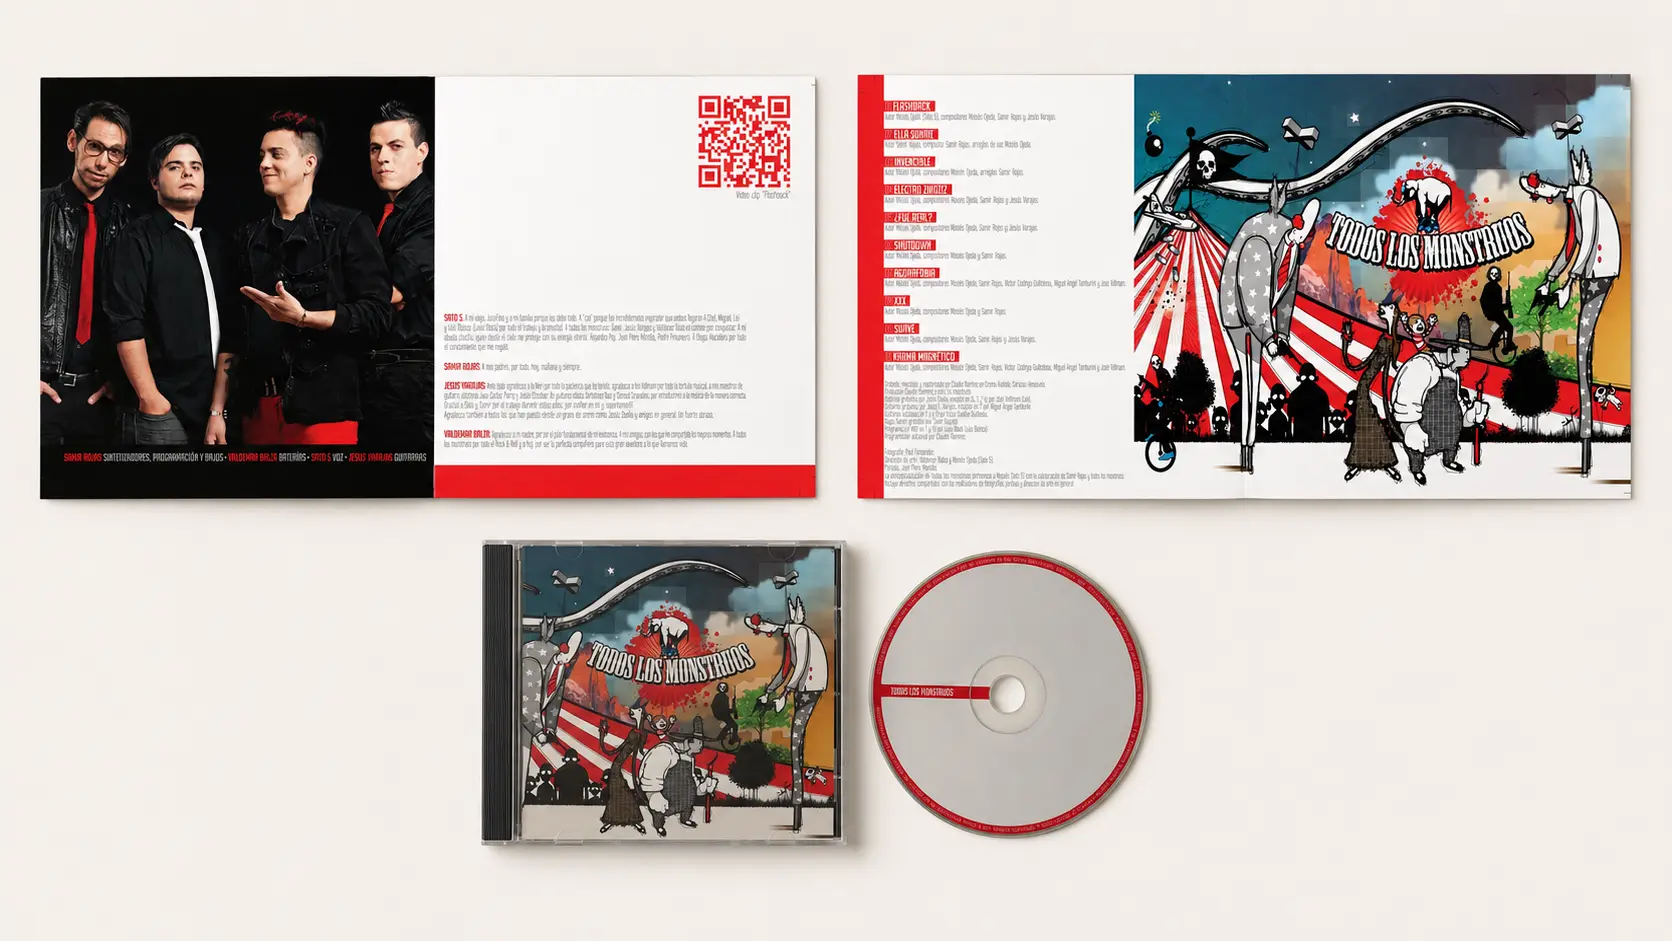
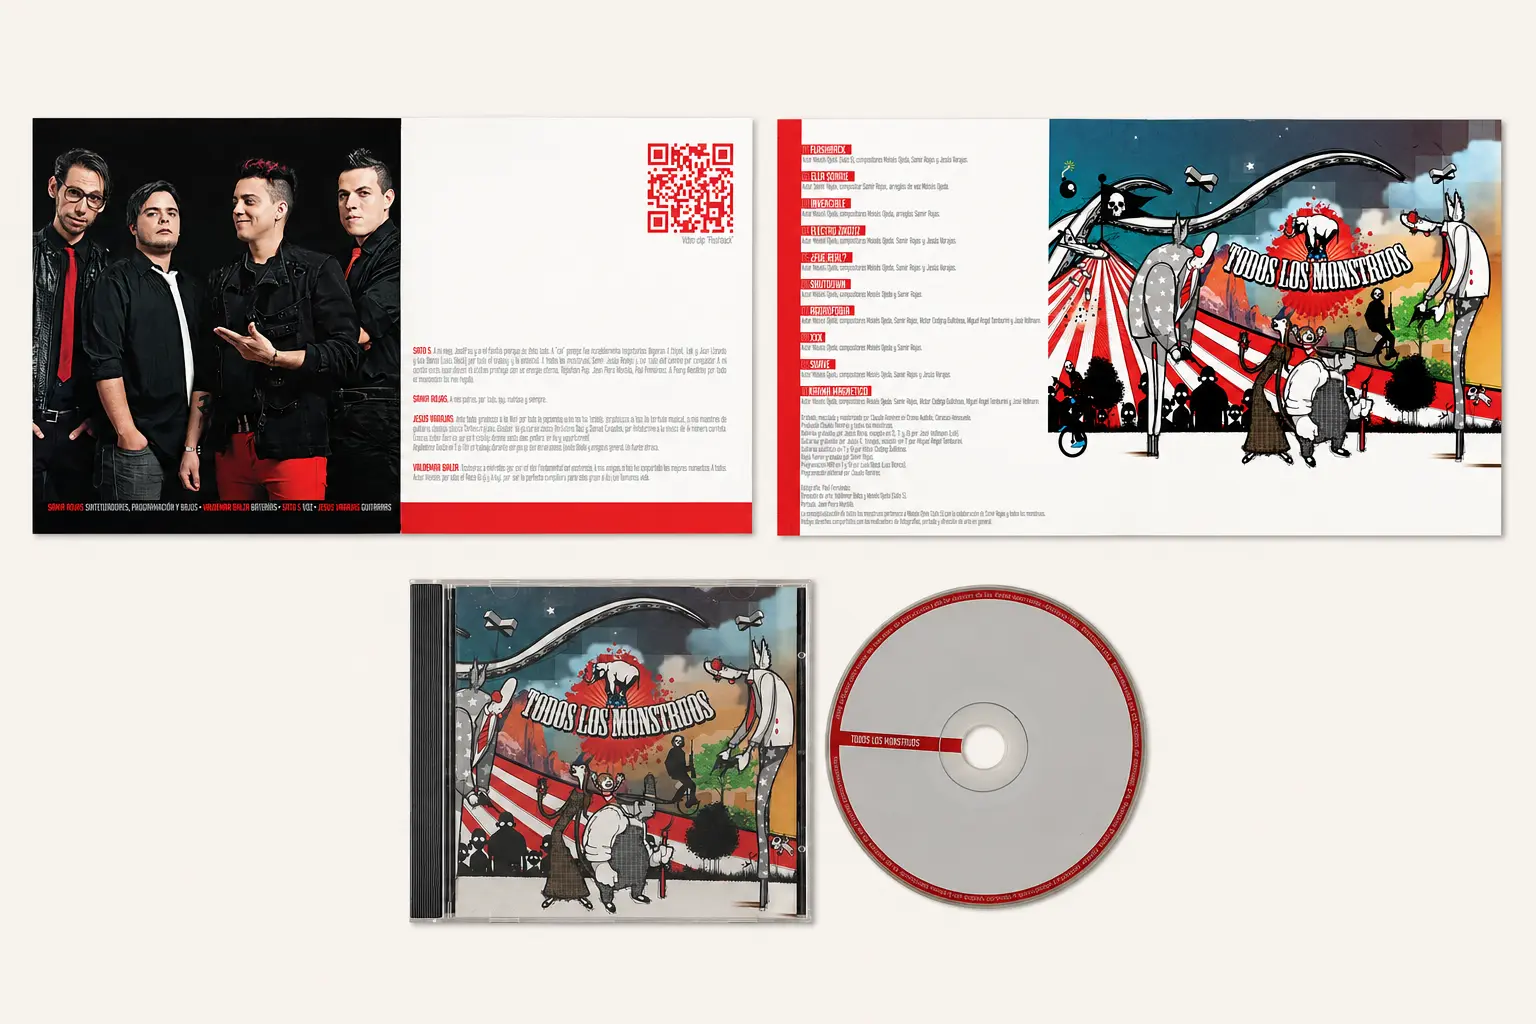
Feature Todos los Monstruos artwork as section hero

diff --git a/music.html b/music.html
@@ -8,7 +8,7 @@
 <style>
 *{box-sizing:border-box;margin:0;padding:0}html{scroll-behavior:smooth}body{font-family:Arial,Helvetica,sans-serif;background:#f5f3ee;color:#111;line-height:1.45}a{color:inherit}nav{display:flex;justify-content:space-between;align-items:center;padding:28px 6%;font-size:14px;border-bottom:1px solid #aaa}.logo{font-weight:700;letter-spacing:1px;text-decoration:none}.nav-links{display:flex;gap:24px}.nav-links a{text-decoration:none}.nav-links a:hover,.back:hover{opacity:.5}.intro{padding:100px 6% 90px}.eyebrow,.case-number,.case-meta,.role-label,.outcome-label{font-size:12px;text-transform:uppercase;letter-spacing:1.8px}.intro h1{font-size:clamp(58px,9vw,132px);line-height:.87;letter-spacing:-5px;max-width:1100px;margin:26px 0 42px}.intro-grid{display:grid;grid-template-columns:1fr 1fr;gap:60px}.intro-copy{font-size:clamp(20px,2vw,29px);line-height:1.3;letter-spacing:-.5px;max-width:720px}.intro-note{align-self:end;max-width:520px;font-size:15px;line-height:1.6}.case{border-top:1px solid #888;padding:80px 6% 95px}.case-head{display:grid;grid-template-columns:120px 1fr;gap:30px;margin-bottom:55px}.case-title h2{font-size:clamp(46px,7vw,100px);line-height:.9;letter-spacing:-4px;margin-bottom:18px}.case-meta{opacity:.62}.case-body{display:grid;grid-template-columns:minmax(220px,.7fr) minmax(0,1.3fr);gap:70px;margin-left:150px}.case-side{display:flex;flex-direction:column;gap:35px}.role-label,.outcome-label{opacity:.55;margin-bottom:10px}.role{font-size:15px;line-height:1.65}.case-copy{font-size:18px;line-height:1.62;max-width:790px}.case-copy p+p{margin-top:24px}.outcomes{border-top:1px solid #aaa;margin-top:45px}.outcome{display:grid;grid-template-columns:42px 1fr;gap:16px;padding:15px 0;border-bottom:1px solid #bbb;font-size:14px}.outcome span:first-child{font-size:11px;opacity:.45}.quote{margin:58px 0 8px;padding:36px 0;border-top:2px solid #111;border-bottom:2px solid #111;font-size:clamp(30px,4vw,58px);line-height:1.02;letter-spacing:-2px;font-weight:700}.campaign-preview{margin-top:42px;padding:24px 26px;background:#111;color:#fff;display:flex;align-items:center;justify-content:space-between;gap:20px}.campaign-preview strong{display:block;font-size:14px;text-transform:uppercase;letter-spacing:1.5px}.campaign-preview span{font-size:12px;letter-spacing:1px;opacity:.62}.turning-point{margin-top:48px;padding:28px 0;border-top:1px solid #aaa;border-bottom:1px solid #aaa}.turning-point strong{display:block;text-transform:uppercase;letter-spacing:1.5px;font-size:12px;margin-bottom:12px}.turning-point p{font-size:16px;line-height:1.55}.skills{border-top:1px solid #888;padding:85px 6% 100px}.skills h2{font-size:clamp(42px,6vw,82px);line-height:.95;letter-spacing:-3px;max-width:900px;margin-bottom:40px}.skills-grid{display:grid;grid-template-columns:1fr 1fr;gap:60px}.skills-copy{font-size:20px;line-height:1.5;max-width:700px}.skills-list{border-top:1px solid #aaa}.skills-list div{padding:16px 0;border-bottom:1px solid #bbb;font-size:14px;text-transform:uppercase;letter-spacing:1px}.closing{background:#111;color:#fff;padding:90px 6%}.closing p{font-size:clamp(34px,5vw,72px);line-height:1.04;letter-spacing:-2.5px;max-width:1150px}.back{display:inline-block;margin-top:45px;text-decoration:none;text-transform:uppercase;letter-spacing:1.5px;font-size:13px}
 .video-feature{margin:34px 0 42px}.video-frame{position:relative;width:100%;aspect-ratio:16/9;background:#111;overflow:hidden}.video-frame iframe{position:absolute;inset:0;width:100%;height:100%;border:0}.video-feature figcaption{display:flex;justify-content:space-between;gap:24px;padding-top:12px;border-top:1px solid #aaa;font-size:11px;line-height:1.4;text-transform:uppercase;letter-spacing:1.4px}.video-feature figcaption span:last-child{opacity:.55;text-align:right}
-.archive-figure{margin:34px 0 46px}.archive-figure img{display:block;width:100%;height:auto;background:#f5f3ee}.archive-figure--ep img{max-width:680px;margin:0 auto}.archive-figure figcaption{display:flex;justify-content:space-between;gap:24px;margin-top:12px;padding-top:12px;border-top:1px solid #aaa;font-size:11px;line-height:1.4;text-transform:uppercase;letter-spacing:1.4px}.archive-figure figcaption span:last-child{opacity:.55;text-align:right}
+.archive-figure{margin:34px 0 46px}.archive-figure img{display:block;width:100%;height:auto;background:#f5f3ee}.case-hero{margin:-10px 0 72px}.case-hero img{width:100%}.archive-figure--ep img{max-width:680px;margin:0 auto}.archive-figure figcaption{display:flex;justify-content:space-between;gap:24px;margin-top:12px;padding-top:12px;border-top:1px solid #aaa;font-size:11px;line-height:1.4;text-transform:uppercase;letter-spacing:1.4px}.archive-figure figcaption span:last-child{opacity:.55;text-align:right}
 @media(max-width:800px){nav .nav-links{display:none}.intro{padding-top:70px}.intro h1{letter-spacing:-3px}.intro-grid,.skills-grid{grid-template-columns:1fr;gap:28px}.case{padding-top:60px}.case-head{grid-template-columns:1fr;gap:14px}.case-title h2{letter-spacing:-2.5px}.case-body{grid-template-columns:1fr;gap:38px;margin-left:0}.case-side{display:grid;grid-template-columns:1fr 1fr}.case-copy{font-size:17px}.quote{letter-spacing:-1.4px}.closing{padding-top:70px;padding-bottom:75px}}@media(max-width:520px){.case-side{grid-template-columns:1fr}.intro h1{font-size:52px}.outcome{grid-template-columns:34px 1fr}.video-feature figcaption{display:block}.video-feature figcaption span{display:block}.video-feature figcaption span:last-child{margin-top:5px;text-align:left}.archive-figure figcaption{display:block}.archive-figure figcaption span{display:block}.archive-figure figcaption span:last-child{margin-top:5px;text-align:left}}
 </style>
 </head>
@@ -33,13 +33,13 @@
 
 <section class="case" id="todos-los-monstruos">
   <div class="case-head"><div class="case-number">02 / 03</div><div class="case-title"><h2>Todos los<br>Monstruos</h2><div class="case-meta">Caracas · 2009—2014</div></div></div>
+  <figure class="archive-figure case-hero">
+    <img src="assets/todos-los-monstruos-album.webp" width="1536" height="1024" alt="Todos los Monstruos: band portrait, album artwork, jewel case and compact disc" fetchpriority="high">
+    <figcaption><span>Todos los Monstruos</span><span>Album artwork · Physical edition</span></figcaption>
+  </figure>
   <div class="case-body">
     <aside class="case-side"><div><div class="role-label">Role</div><p class="role">Founder<br>Artist & Project Developer<br>Creative & Musical Director<br>Songwriter</p></div><div><div class="outcome-label">Focus</div><p class="role">World-building<br>Team Leadership<br>Live Innovation<br>Media & Audience</p></div></aside>
     <div class="case-copy"><p>I founded Todos los Monstruos in Caracas in 2009 and led its development as both a musical project and a multidisciplinary creative universe.</p>
-      <figure class="archive-figure archive-figure--album">
-        <img src="assets/todos-los-monstruos-album.webp" width="1672" height="941" alt="Todos los Monstruos album artwork, jewel case and compact disc presented as an archival gallery composition" loading="lazy">
-        <figcaption><span>Todos los Monstruos</span><span>Album artwork · Physical edition</span></figcaption>
-      </figure>
       <figure class="archive-figure archive-figure--ep">
         <img src="assets/todos-los-monstruos-ep-flashback.webp" width="1448" height="1086" alt="Flashback promotional EP by Todos los Monstruos" loading="lazy">
         <figcaption><span>EP Flashback</span><span>Primer sencillo de la banda · 2012</span></figcaption>
